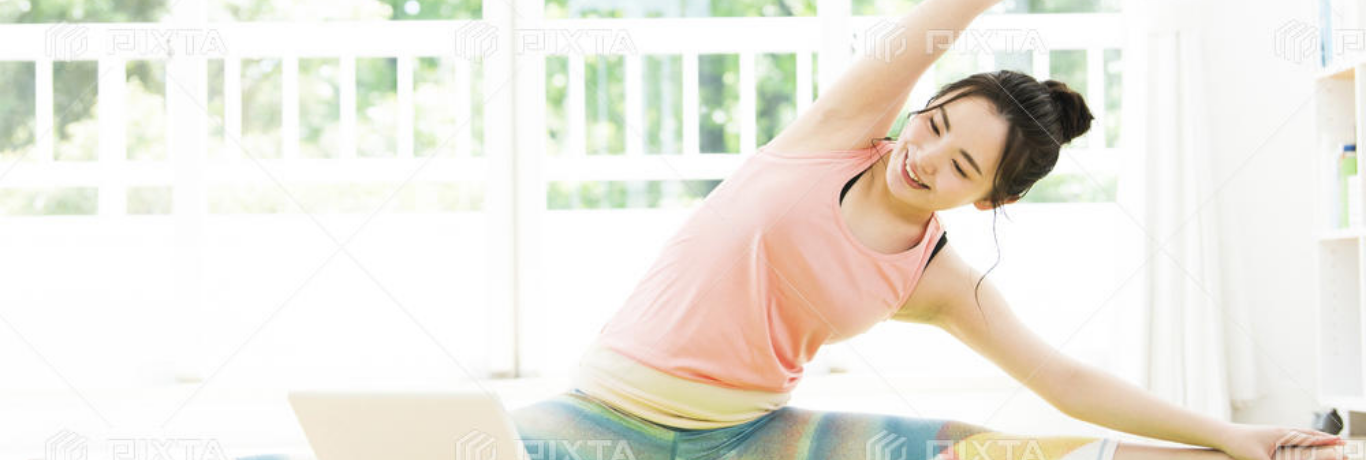
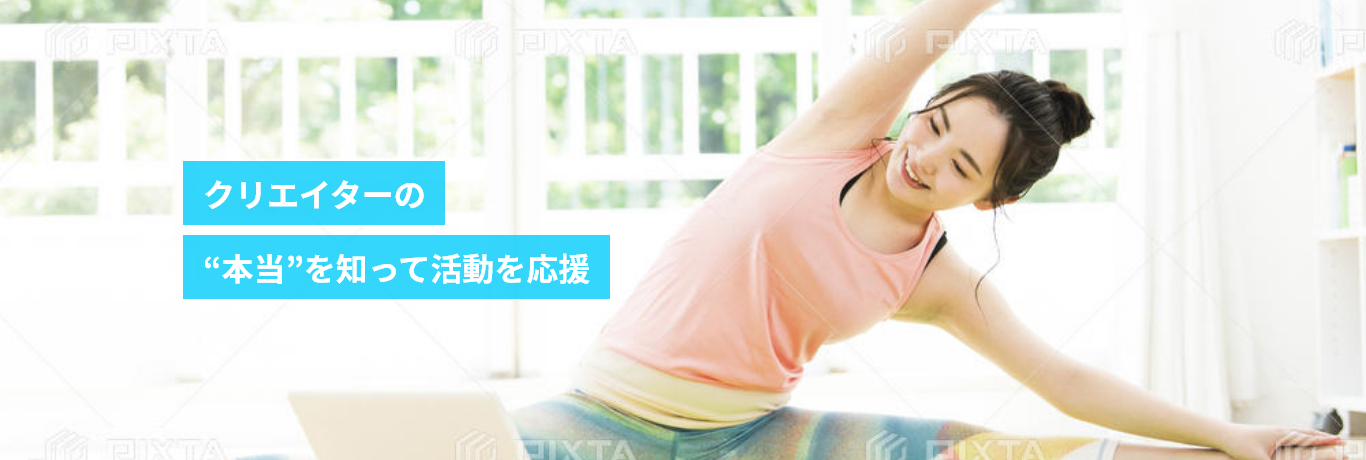
スライド画像、幅調整

Changed region(s): [[0.123, 0.3348, 0.4612, 0.6696]]

diff --git a/index.html b/index.html
@@ -23,20 +23,26 @@
 
   <body>
     <header>
-      <h1>BACKSTAGE</h1>
+      <h1><a href="/">BACKSTAGE</a></h1>
       <nav>
         <ul id="global_nav">
-          <li id="current_page"><a href="#"></a> Home</li>
-          <li id="about_page"><a href="#">BACKSTAGEとは</a></li>
-          <li><a href="#">利用方法</a></li>
+          <li id="current_page"><a href="/">Home</a></li>
+          <li id="about_page"><a href="#whatis">BACKSTAGEとは</a></li>
+          <li>
+            <p>利用方法</p>
+            <ul>
+              <li><a href="#section_merit">― クリエイター</a></li>
+              <li><a href="#section_merit">― ファン</a></li>
+            </ul>
+          </li>
           <li><a href="#">よくある質問</a></li>
           <li><a href="#">料金</a></li>
         </ul>
         <ul id="member_nav">
-          <li>
+          <li class="button">
             <a href="#"><img src="/img/header_register.png" alt="無料登録" /></a>
           </li>
-          <li>
+          <li class="button">
             <a href="#"><img src="/img/header_login.png" alt="ログイン" /></a>
           </li>
         </ul>
@@ -58,18 +64,18 @@
               </li>
               <li class="splide__slide">
                 <picture>
-                  <source srcset="/img/top/top_slide_1.png" media="(min-width: 768px)" />
+                  <source srcset="/img/top/top_slide_2.png" media="(min-width: 768px)" />
                   <img
-                    src="/img/top/top_slide_1.png"
+                    src="/img/top/top_slide_2.png"
                     alt="クリエイターの“本当”を知って活動を応援"
                   />
                 </picture>
               </li>
               <li class="splide__slide">
                 <picture>
-                  <source srcset="/img/top/top_slide_1.png" media="(min-width: 768px)" />
+                  <source srcset="/img/top/top_slide_3.png" media="(min-width: 768px)" />
                   <img
-                    src="/img/top/top_slide_1.png"
+                    src="/img/top/top_slide_3.png"
                     alt="クリエイターの“本当”を知って活動を応援"
                   />
                 </picture>
@@ -83,7 +89,7 @@
         <p class="button">
           <a href="#"><img src="/img/top/top_button_1.png" alt="クリエイターを探す" /></a>
         </p>
-        <h2>BACKSTAGEについて</h2>
+        <h2 id="whatis">BACKSTAGEについて</h2>
         <section id="section_about">
           <div>
             <h3>About</h3>
@@ -327,12 +333,12 @@ BACKSTAGE限定コンテンツが視聴、
         <ul id="sitemap">
           <li>
             <ul>
-              <li><a href="#">BACKSTAGEとは</a></li>
+              <li><a href="#whatis">BACKSTAGEとは</a></li>
               <li>
                 利用方法
                 <ul>
-                  <li><a href="#">― クリエイター</a></li>
-                  <li><a href="#">― ファン</a></li>
+                  <li><a href="#section_merit">― クリエイター</a></li>
+                  <li><a href="#section_merit">― ファン</a></li>
                 </ul>
               </li>
             </ul>
@@ -394,8 +400,9 @@ BACKSTAGE限定コンテンツが視聴、
       <p>©2023 BACKSTAGE.</p>
     </footer>
     <script>
-      new Splide("#main_slide", { arrows: false }).mount();
+      new Splide("#main_slide", { type: "fade", arrows: false }).mount();
       new Splide("#recommend_slide", {
+        autoplay: true,
         perPage: 2.5,
         perMove: 1,
         rewind: true,
